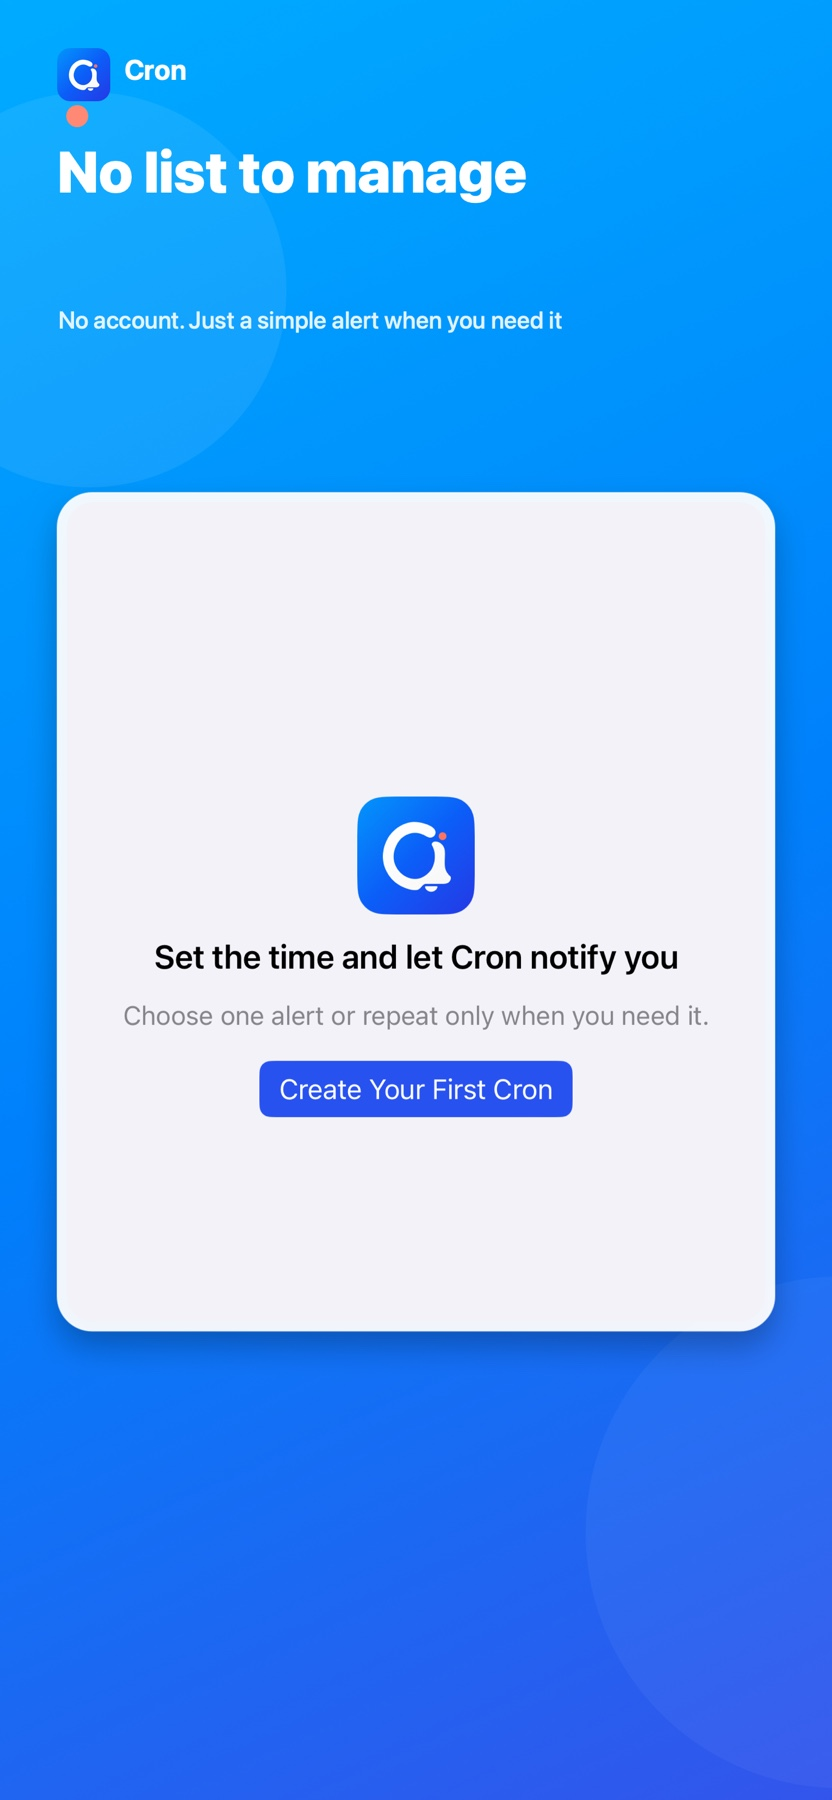
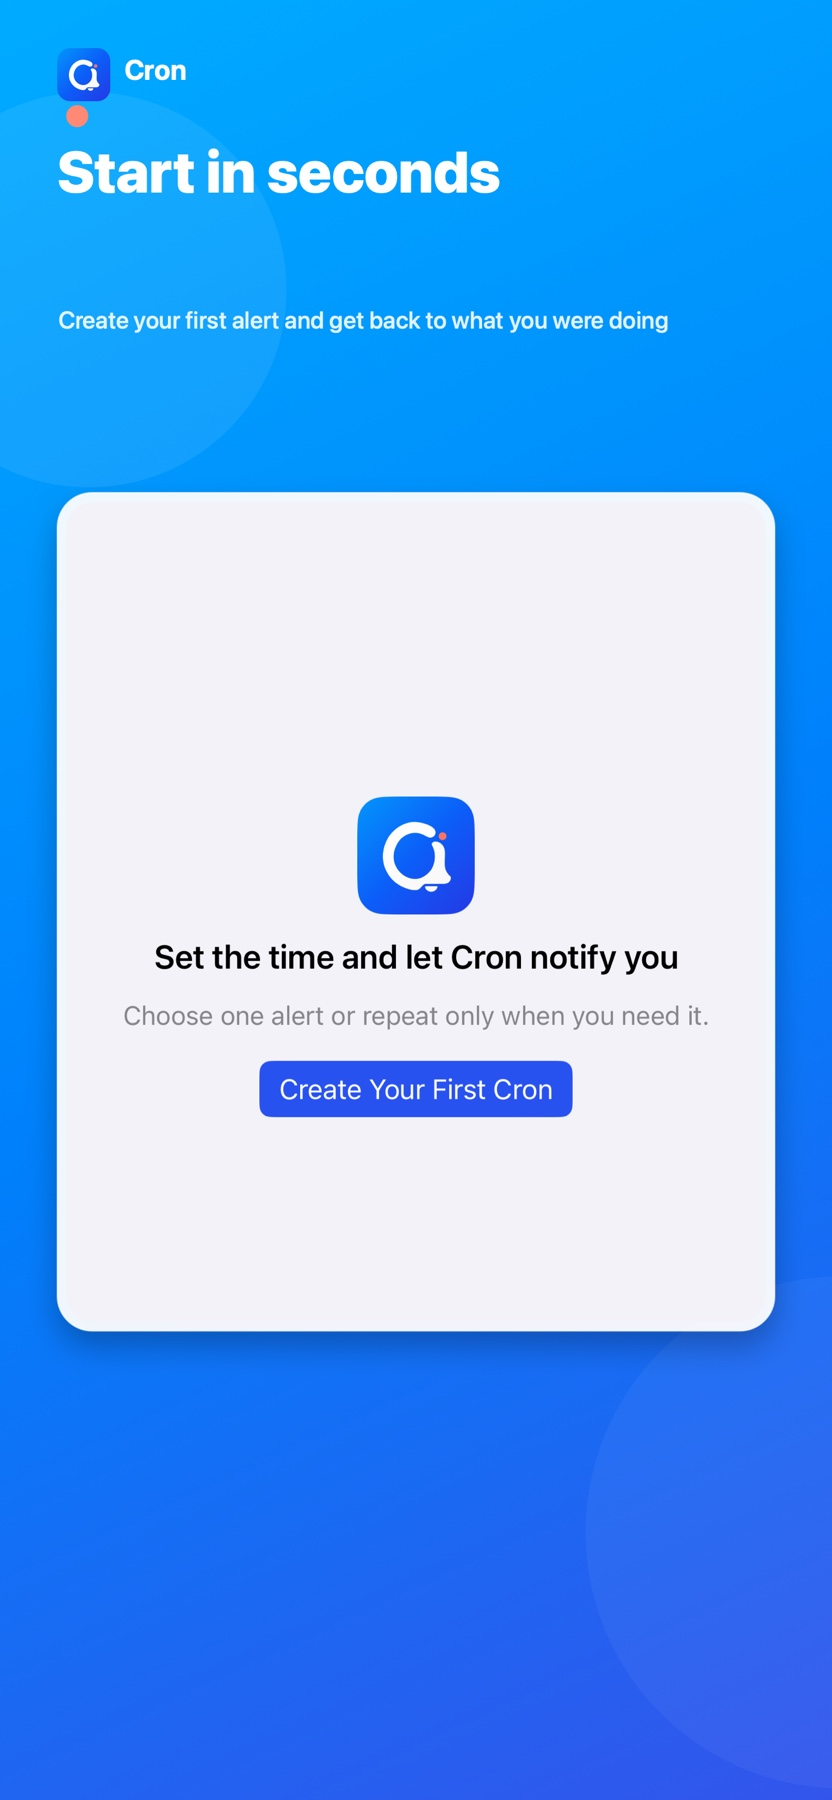
refine Cron product copy

Changed region(s): [[0.0625, 0.0622, 0.625, 0.1244], [0.0625, 0.1556, 0.8125, 0.1867]]

diff --git a/cron/index.html b/cron/index.html
@@ -8,12 +8,12 @@
   <meta name="theme-color" content="#076CF8">
   <meta property="og:type" content="website">
   <meta property="og:title" content="Cron - Set it and get notified">
-  <meta property="og:description" content="Add a name and choose a time. Cron gives you one clear alert, with no task list or account required.">
+  <meta property="og:description" content="Add a name, choose a time, and Cron will notify you. Use it once or repeat only when needed.">
   <meta property="og:url" content="https://lucidmaj7.github.io/cron/">
   <meta property="og:image" content="https://lucidmaj7.github.io/cron/images/og.png">
   <meta name="twitter:card" content="summary_large_image">
   <meta name="twitter:title" content="Cron - Set it and get notified">
-  <meta name="twitter:description" content="Add a name and choose a time. Cron gives you one clear alert, with no task list or account required.">
+  <meta name="twitter:description" content="Add a name, choose a time, and Cron will notify you. Use it once or repeat only when needed.">
   <meta name="twitter:image" content="https://lucidmaj7.github.io/cron/images/og.png">
   <title>Cron - Simple Reminder for iPhone</title>
   <link rel="canonical" href="https://lucidmaj7.github.io/cron/">
@@ -61,7 +61,7 @@
           </div>
           <p class="cron-hero__eyebrow"><span aria-hidden="true"></span> Simple alert</p>
           <h1 id="cron-title" class="cron-hero__title" data-kinetic>Set it.<br>Get notified.</h1>
-          <p class="cron-hero__tagline">No task lists. No projects. Add a name, choose when, and Cron will notify you. Use it once, or repeat only when you need it.</p>
+          <p class="cron-hero__tagline">Add a name, choose when, and Cron will notify you. Use it once, or repeat only when you need it.</p>
           <div class="cron-hero__actions">
             <a href="https://apps.apple.com/app/id1491910066" class="cron-btn cron-btn--primary" target="_blank" rel="noopener noreferrer">Download on the App Store</a>
             <a href="#features" class="cron-btn cron-btn--ghost">Explore features</a>
@@ -81,7 +81,7 @@
       <ul class="cron-facts__inner" role="list">
         <li><strong>3 quick steps</strong><span>name time save</span></li>
         <li><strong>One clear alert</strong><span>right when needed</span></li>
-        <li><strong>No account</strong><span>start immediately</span></li>
+        <li><strong>Exact next alert</strong><span>before you save</span></li>
         <li><strong>On device</strong><span>your Cron details</span></li>
       </ul>
     </section>
@@ -91,7 +91,7 @@
         <header class="cron-section__header">
           <p class="cron-section__label">Focused by design</p>
           <h2 id="features-title">One simple job.<br>Right on time.</h2>
-          <p>Cron gets a small but important thing out of your head, without turning it into another list to manage.</p>
+          <p>Cron holds onto a small but important thing and brings it back at exactly the right time.</p>
         </header>
 
         <ul class="cron-feature-grid reveal--stagger" role="list">
@@ -117,7 +117,7 @@
     <section class="cron-showcase" aria-labelledby="showcase-title">
       <div class="cron-section">
         <header class="cron-section__header cron-section__header--light reveal">
-          <p class="cron-section__label">Nothing extra</p>
+          <p class="cron-section__label">Built for quick alerts</p>
           <h2 id="showcase-title">From thought to alert<br>in a few taps.</h2>
           <p>The actual screens keep the path short: add the alert, see when it will fire, and move on.</p>
         </header>
@@ -169,7 +169,7 @@
         <div class="cron-privacy__mark" aria-hidden="true"></div>
         <div>
           <p class="cron-section__label">Simple and private</p>
-          <h2 id="privacy-title">No account required.</h2>
+          <h2 id="privacy-title">Your alerts stay yours.</h2>
           <p>Cron titles, notes, and schedules stay on your device. Core alert features work offline, and Cron content is never used for advertising. Personalized ads are requested only within your privacy choices.</p>
         </div>
       </div>
@@ -180,7 +180,7 @@
         <img src="images/icon.png" alt="Cron app icon" width="112" height="112" loading="lazy">
         <p class="cron-section__label">Cron 2.0</p>
         <h2 id="cta-title">Choose a time.<br>Get back to life.</h2>
-        <p>Cron handles the alert without turning it into another project.</p>
+        <p>Set the alert you need, then get back to what you were doing.</p>
         <a href="https://apps.apple.com/app/id1491910066" class="cron-btn cron-btn--primary" target="_blank" rel="noopener noreferrer">Download on the App Store</a>
       </div>
     </section>

diff --git a/index.html b/index.html
@@ -154,7 +154,7 @@
           <span class="app-showcase__number" aria-hidden="true">07</span>
           <div class="app-showcase__content">
             <h2 class="app-showcase__name">Cron</h2>
-            <p class="app-showcase__desc">Choose a time and get one clear alert. No list to manage.</p>
+            <p class="app-showcase__desc">Choose a time and get one clear alert. Repeat only when needed.</p>
             <a href="cron/index.html" class="app-showcase__link">Explore</a>
           </div>
           <div class="app-showcase__visual">
